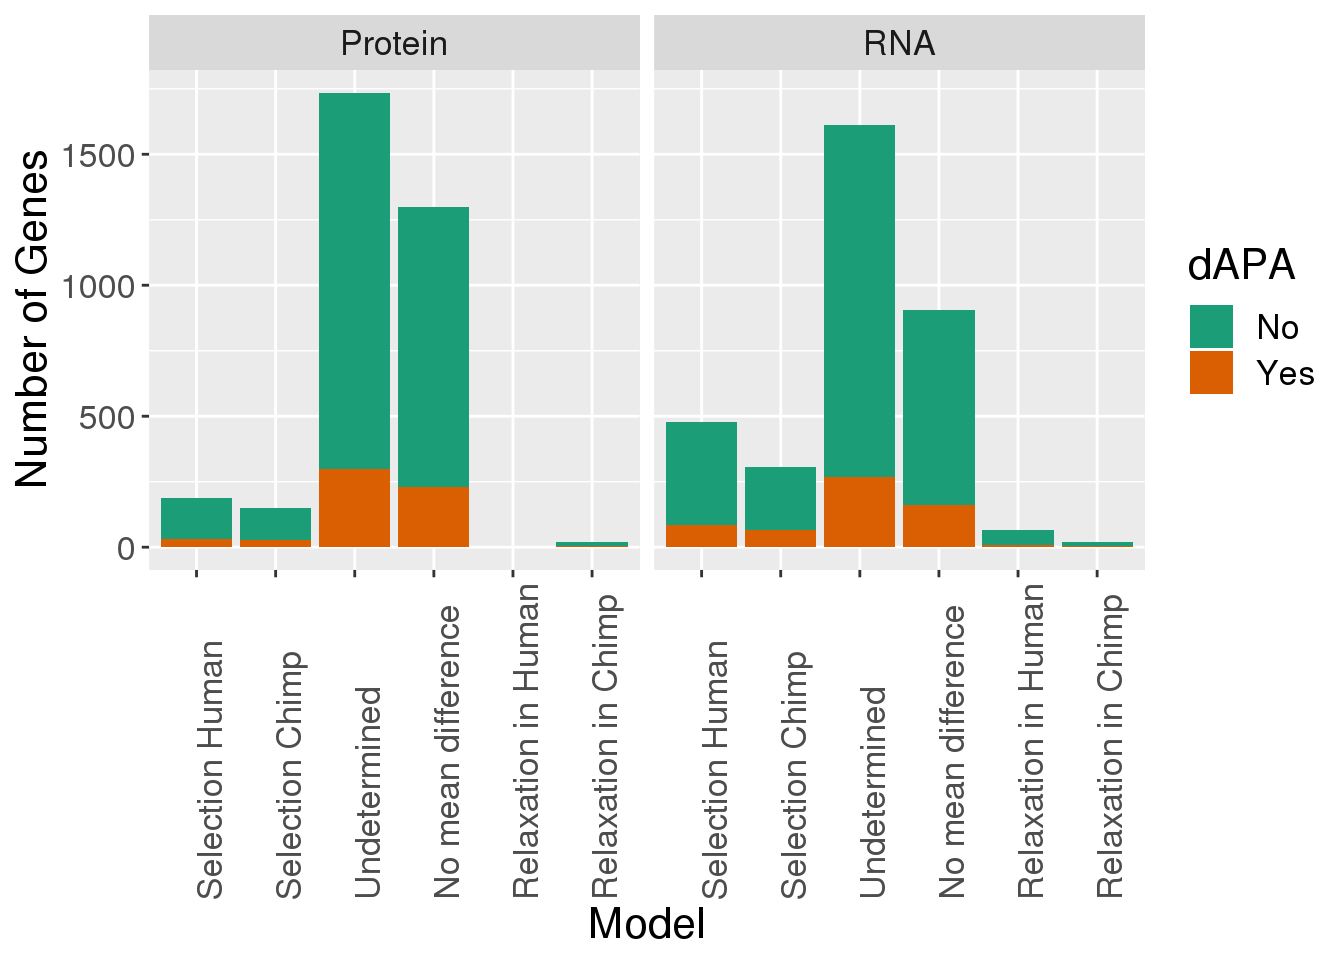
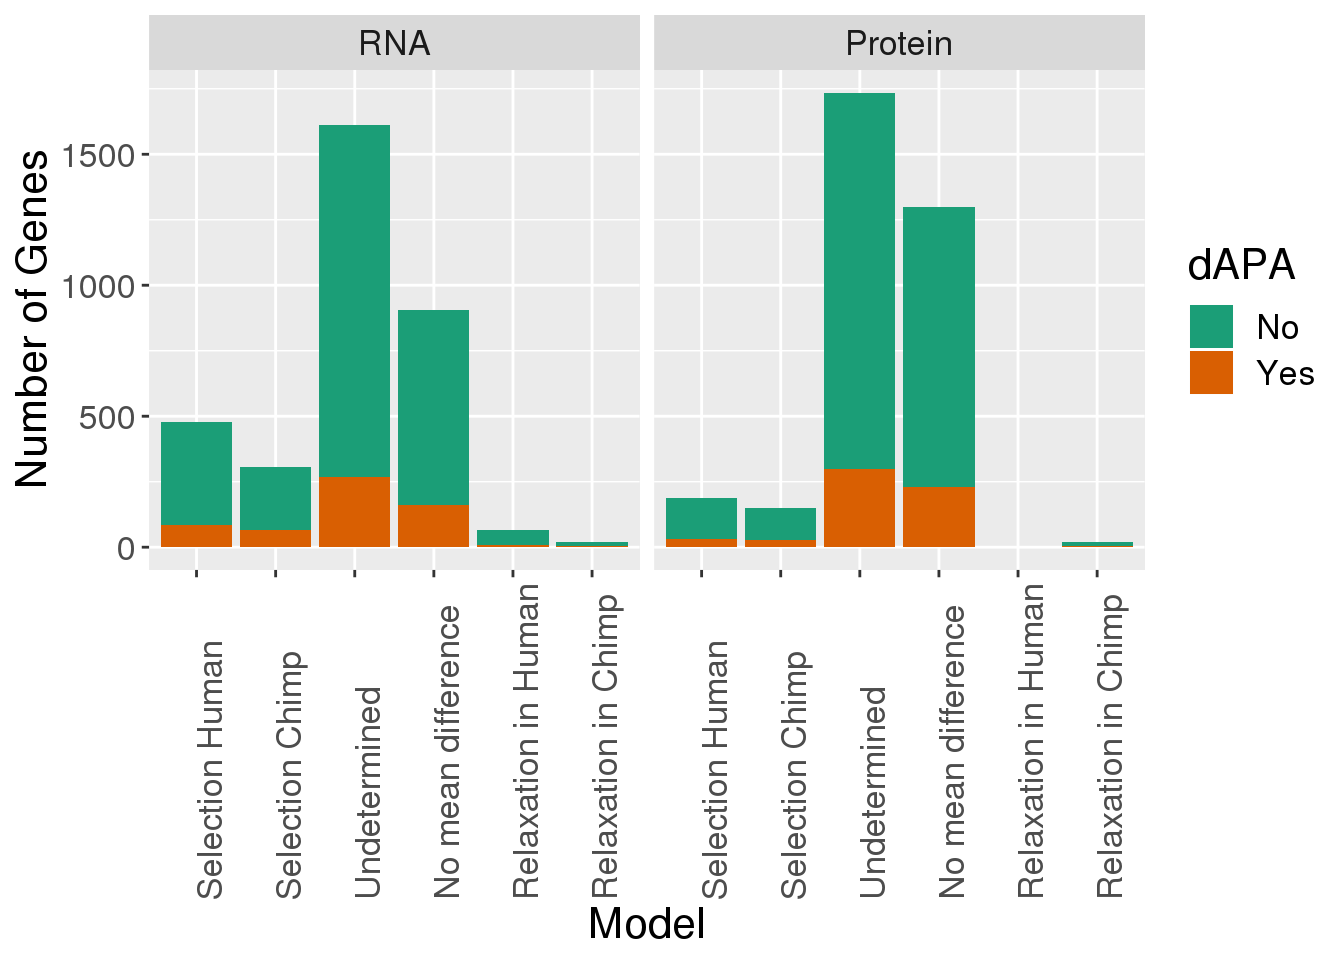
Build site.

diff --git a/docs/DirSelectionKhan.html b/docs/DirSelectionKhan.html
@@ -343,7 +343,7 @@ div.section {
 <div class="tab-content">
 <div id="summary" class="tab-pane fade in active">
 <p>
-<strong>Last updated:</strong> 2020-03-05
+<strong>Last updated:</strong> 2020-03-06
 </p>
 <p>
 <strong>Checks:</strong> <span class="glyphicon glyphicon-ok text-success" aria-hidden="true"></span> 7 <span class="glyphicon glyphicon-exclamation-sign text-danger" aria-hidden="true"></span> 0
@@ -434,10 +434,10 @@ This reproducible <a href="http://rmarkdown.rstudio.com">R Markdown</a> analysis
 <div class="panel panel-default">
 <div class="panel-heading">
 <p class="panel-title">
-<a data-toggle="collapse" data-parent="#workflowr-checks" href="#strongRepositoryversionstrongahrefhttpsgithubcombrimittlemanComparativeAPAtreea71e15c015c2de7e0d4822100d35ae2f388bc7eetargetblanka71e15ca"> <span class="glyphicon glyphicon-ok text-success" aria-hidden="true"></span> <strong>Repository version:</strong> <a href="https://github.com/brimittleman/Comparative_APA/tree/a71e15c015c2de7e0d4822100d35ae2f388bc7ee" target="_blank">a71e15c</a> </a>
+<a data-toggle="collapse" data-parent="#workflowr-checks" href="#strongRepositoryversionstrongahrefhttpsgithubcombrimittlemanComparativeAPAtree8400ab63ac2f68d7f3cc3e40405b61d7356ea7eftargetblank8400ab6a"> <span class="glyphicon glyphicon-ok text-success" aria-hidden="true"></span> <strong>Repository version:</strong> <a href="https://github.com/brimittleman/Comparative_APA/tree/8400ab63ac2f68d7f3cc3e40405b61d7356ea7ef" target="_blank">8400ab6</a> </a>
 </p>
 </div>
[2 lines of base64/hex data omitted]
 <div class="panel-body">
 <p>
 Great! You are using Git for version control. Tracking code development and connecting the code version to the results is critical for reproducibility. The version displayed above was the version of the Git repository at the time these results were generated. <br><br> Note that you need to be careful to ensure that all relevant files for the analysis have been committed to Git prior to generating the results (you can use <code>wflow_publish</code> or <code>wflow_git_commit</code>). workflowr only checks the R Markdown file, but you know if there are other scripts or data files that it depends on. Below is the status of the Git repository when the results were generated:
@@ -1151,6 +1151,40 @@ Message
 Rmd
 </td>
 <td>
+<a href="https://github.com/brimittleman/Comparative_APA/blob/8400ab63ac2f68d7f3cc3e40405b61d7356ea7ef/analysis/DirSelectionKhan.Rmd" target="_blank">8400ab6</a>
+</td>
+<td>
+brimittleman
+</td>
+<td>
+2020-03-06
+</td>
+<td>
+add enrichment results
+</td>
+</tr>
+<tr>
+<td>
+html
+</td>
+<td>
+<a href="https://rawcdn.githack.com/brimittleman/Comparative_APA/a1fd883fda88dea7e55f5d53ee8824e5ecfbe9e4/docs/DirSelectionKhan.html" target="_blank">a1fd883</a>
+</td>
+<td>
+brimittleman
+</td>
+<td>
+2020-03-05
+</td>
+<td>
+Build site.
+</td>
+</tr>
+<tr>
+<td>
+Rmd
+</td>
+<td>
 <a href="https://github.com/brimittleman/Comparative_APA/blob/a71e15c015c2de7e0d4822100d35ae2f388bc7ee/analysis/DirSelectionKhan.Rmd" target="_blank">a71e15c</a>
 </td>
 <td>
@@ -1189,12 +1223,93 @@ KhanData_g=KhanData %&gt;% gather(&quot;Set&quot;, &quot;Model&quot;, -gene)
 
 KhanData_g$Model= as.factor(KhanData_g$Model)</code></pre>
 <pre class="r"><code>ggplot(KhanData_g, aes(x=Model, by=Set, fill=Set)) +geom_bar(stat=&quot;count&quot;,position = &quot;dodge&quot;)</code></pre>
-<p><img src="figure/DirSelectionKhan.Rmd/unnamed-chunk-3-1.png" width="672" style="display: block; margin: auto;" /> 1. directional human 2. directional in chimp 3, undetermined 4. no mean difference 5. relaxed in human 6. related in chimp</p>
+<p><img src="figure/DirSelectionKhan.Rmd/unnamed-chunk-3-1.png" width="672" style="display: block; margin: auto;" /></p>
+<p>
+<button type="button" class="btn btn-default btn-xs btn-workflowr btn-workflowr-fig" data-toggle="collapse" data-target="#fig-unnamed-chunk-3-1">
+Past versions of unnamed-chunk-3-1.png
+</button>
+</p>
+<div id="fig-unnamed-chunk-3-1" class="collapse">
+<div class="table-responsive">
+<table class="table table-condensed table-hover">
+<thead>
+<tr>
+<th>
+Version
+</th>
+<th>
+Author
+</th>
+<th>
+Date
+</th>
+</tr>
+</thead>
+<tbody>
+<tr>
+<td>
+<a href="https://github.com/brimittleman/Comparative_APA/blob/a1fd883fda88dea7e55f5d53ee8824e5ecfbe9e4/docs/figure/DirSelectionKhan.Rmd/unnamed-chunk-3-1.png" target="_blank">a1fd883</a>
+</td>
+<td>
+brimittleman
+</td>
+<td>
+2020-03-05
+</td>
+</tr>
+</tbody>
+</table>
+</div>
+</div>
+<ol style="list-style-type: decimal">
+<li>directional human</li>
+<li>directional in chimp 3, undetermined</li>
+<li>no mean difference</li>
+<li>relaxed in human</li>
+<li>related in chimp</li>
+</ol>
 <p>Proportion</p>
 <pre class="r"><code>KhanData_group=KhanData_g %&gt;% group_by(Set, Model) %&gt;% summarise(Nset=n(), Prortion=Nset/nrow(KhanData))
 
 ggplot(KhanData_group, aes(x=Model, by=Set, fill=Set, y=Prortion)) +geom_bar(stat=&quot;identity&quot;,position = &quot;dodge&quot;)</code></pre>
 <p><img src="figure/DirSelectionKhan.Rmd/unnamed-chunk-4-1.png" width="672" style="display: block; margin: auto;" /></p>
+<p>
+<button type="button" class="btn btn-default btn-xs btn-workflowr btn-workflowr-fig" data-toggle="collapse" data-target="#fig-unnamed-chunk-4-1">
+Past versions of unnamed-chunk-4-1.png
+</button>
+</p>
+<div id="fig-unnamed-chunk-4-1" class="collapse">
+<div class="table-responsive">
+<table class="table table-condensed table-hover">
+<thead>
+<tr>
+<th>
+Version
+</th>
+<th>
+Author
+</th>
+<th>
+Date
+</th>
+</tr>
+</thead>
+<tbody>
+<tr>
+<td>
+<a href="https://github.com/brimittleman/Comparative_APA/blob/a1fd883fda88dea7e55f5d53ee8824e5ecfbe9e4/docs/figure/DirSelectionKhan.Rmd/unnamed-chunk-4-1.png" target="_blank">a1fd883</a>
+</td>
+<td>
+brimittleman
+</td>
+<td>
+2020-03-05
+</td>
+</tr>
+</tbody>
+</table>
+</div>
+</div>
 <p>This is their results. I will overlap this with the genes I found differences in.</p>
 <pre class="r"><code>DiffIso=read.table(&quot;../data/DiffIso_Nuclear_DF/AllPAS_withGeneSig.txt&quot;, header = T, stringsAsFactors = F) %&gt;% inner_join(KhanData, by=&quot;gene&quot;)
 
@@ -1211,9 +1326,46 @@ KhanData_withAPAinfo= KhanData %&gt;% mutate(dAPA=ifelse(gene %in%GenewDiffIso$g
 <pre class="r"><code>KhanData_gwAPA=KhanData_withAPAinfo %&gt;% gather(&quot;Set&quot;, &quot;Model&quot;, -gene, -dAPA)
 KhanData_gwAPA$Model= as.factor(KhanData_gwAPA$Model)
 
-
+KhanData_gwAPA$Set=factor(KhanData_gwAPA$Set, levels=c(&quot;RNA&quot;, &quot;Protein&quot;))
 ggplot(KhanData_gwAPA, aes(x=Model, by=dAPA, fill=dAPA)) +geom_bar(stat=&quot;count&quot;, position = &quot;stack&quot;) + facet_grid(~Set) + scale_fill_brewer(palette = &quot;Dark2&quot;) + labs(y=&quot;Number of Genes&quot;) + scale_x_discrete( labels=c(&quot;Selection Human&quot;,&quot;Selection Chimp&quot;,&quot;Undetermined&quot;,&quot;No mean difference&quot;,&quot;Relaxation in Human&quot;,&quot;Relaxation in Chimp&quot;))+theme(axis.text.x=element_text(angle=90, hjust=0), text= element_text(size=16))</code></pre>
 <p><img src="figure/DirSelectionKhan.Rmd/unnamed-chunk-7-1.png" width="672" style="display: block; margin: auto;" /></p>
+<p>
+<button type="button" class="btn btn-default btn-xs btn-workflowr btn-workflowr-fig" data-toggle="collapse" data-target="#fig-unnamed-chunk-7-1">
+Past versions of unnamed-chunk-7-1.png
+</button>
+</p>
+<div id="fig-unnamed-chunk-7-1" class="collapse">
+<div class="table-responsive">
+<table class="table table-condensed table-hover">
+<thead>
+<tr>
+<th>
+Version
+</th>
+<th>
+Author
+</th>
+<th>
+Date
+</th>
+</tr>
+</thead>
+<tbody>
+<tr>
+<td>
+<a href="https://github.com/brimittleman/Comparative_APA/blob/a1fd883fda88dea7e55f5d53ee8824e5ecfbe9e4/docs/figure/DirSelectionKhan.Rmd/unnamed-chunk-7-1.png" target="_blank">a1fd883</a>
+</td>
+<td>
+brimittleman
+</td>
+<td>
+2020-03-05
+</td>
+</tr>
+</tbody>
+</table>
+</div>
+</div>
 <p>Look at the genes with directional selection:</p>
 <pre class="r"><code>DirSelectionRNA=KhanData_gwAPA %&gt;% filter(Set==&quot;RNA&quot;, Model %in% c(1,2))
 
@@ -1269,6 +1421,47 @@ RelSelectionProt %&gt;% group_by(Model,dAPA) %&gt;% summarise(n())</code></pre>
 <p>Protein<br />
 -0 genes relax in human<br />
 -6 genes relax in chimp</p>
+<p>Enrichement:</p>
+<p>Write a loop that gets the pvalue and enrichment for each of these:</p>
+<pre class="r"><code>Model=seq(1,6)
+EnrichmentRNA=c()
+PvalueRNA=c()
+for (i in seq(1:6)){
+  x=nrow(KhanData_gwAPA %&gt;% filter(Set==&quot;RNA&quot;, dAPA==&quot;Yes&quot;, Model==i))
+  m=nrow(KhanData_gwAPA %&gt;% filter(Set==&quot;RNA&quot;, Model==i))
+  n=nrow(KhanData_gwAPA %&gt;% filter(Set==&quot;RNA&quot;, Model!=i))
+  k=nrow(KhanData_gwAPA %&gt;% filter(Set==&quot;RNA&quot;, dAPA==&quot;Yes&quot;))
+  N=nrow(KhanData_gwAPA %&gt;% filter(Set==&quot;RNA&quot;))
+  PvalueRNA=c(PvalueRNA, phyper(x,m,n,k,lower.tail=F))
+  enrich=(x/k)/(m/N)
+  EnrichmentRNA=c(EnrichmentRNA, enrich)
+}
+
+EnrichProt=c()
+PvalueProt=c()
+
+for (i in seq(1:6)){
+  x=nrow(KhanData_gwAPA %&gt;% filter(Set==&quot;Protein&quot;, dAPA==&quot;Yes&quot;, Model==i))
+  m=nrow(KhanData_gwAPA %&gt;% filter(Set==&quot;Protein&quot;, Model==i))
+  n=nrow(KhanData_gwAPA %&gt;% filter(Set==&quot;Protein&quot;, Model!=i))
+  k=nrow(KhanData_gwAPA %&gt;% filter(Set==&quot;Protein&quot;, dAPA==&quot;Yes&quot;))
+  N=nrow(KhanData_gwAPA %&gt;% filter(Set==&quot;Protein&quot;))
+  PvalueProt=c(PvalueProt, phyper(x,m,n,k,lower.tail=F))
+  enrich=(x/k)/(m/N)
+  EnrichProt=c(EnrichProt, enrich)
+}</code></pre>
+<pre class="r"><code>EnrichmentResults=as.data.frame(cbind(Model, EnrichmentRNA,EnrichProt,PvalueRNA, PvalueProt))
+
+EnrichmentG= EnrichmentResults %&gt;% select(Model, EnrichmentRNA, EnrichProt) %&gt;% rename(&quot;RNA&quot;=EnrichmentRNA, &quot;Protein&quot;=EnrichProt) %&gt;% gather(&quot;Set&quot;, &quot;Enrichment&quot;, -Model)
+PvalG= EnrichmentResults %&gt;% select(Model, PvalueRNA, PvalueProt) %&gt;% rename(&quot;RNA&quot;=PvalueRNA, &quot;Protein&quot;=PvalueProt) %&gt;% gather(&quot;Set&quot;, &quot;Pvalue&quot;, -Model)
+
+Alldata=EnrichmentG %&gt;% inner_join(PvalG, by=c(&quot;Model&quot;,&quot;Set&quot;))
+
+Alldata$Set=factor(Alldata$Set, levels=c(&quot;RNA&quot;, &quot;Protein&quot;))
+Alldata$Model=factor(Alldata$Model)
+
+ggplot(Alldata,aes(x=Model, y=Enrichment,fill=Set)) + geom_bar(stat = &quot;identity&quot;) + geom_hline(yintercept = 1) + geom_text(aes(label=round(Pvalue,2), vjust=0))+ facet_grid(~Set) + scale_fill_brewer(palette = &quot;Dark2&quot;)  + scale_x_discrete( labels=c(&quot;Selection Human&quot;,&quot;Selection Chimp&quot;,&quot;Undetermined&quot;,&quot;No mean difference&quot;,&quot;Relaxation in Human&quot;,&quot;Relaxation in Chimp&quot;))+theme(axis.text.x=element_text(angle=90, hjust=0), text= element_text(size=16)) +labs(title=&quot;Enrichment of dAPA genes in directional selection sets&quot;)</code></pre>
+<p><img src="figure/DirSelectionKhan.Rmd/unnamed-chunk-11-1.png" width="672" style="display: block; margin: auto;" /></p>
 <p>I need a way to relate this to something about APA</p>
 <p>Examples:</p>
 <br>
